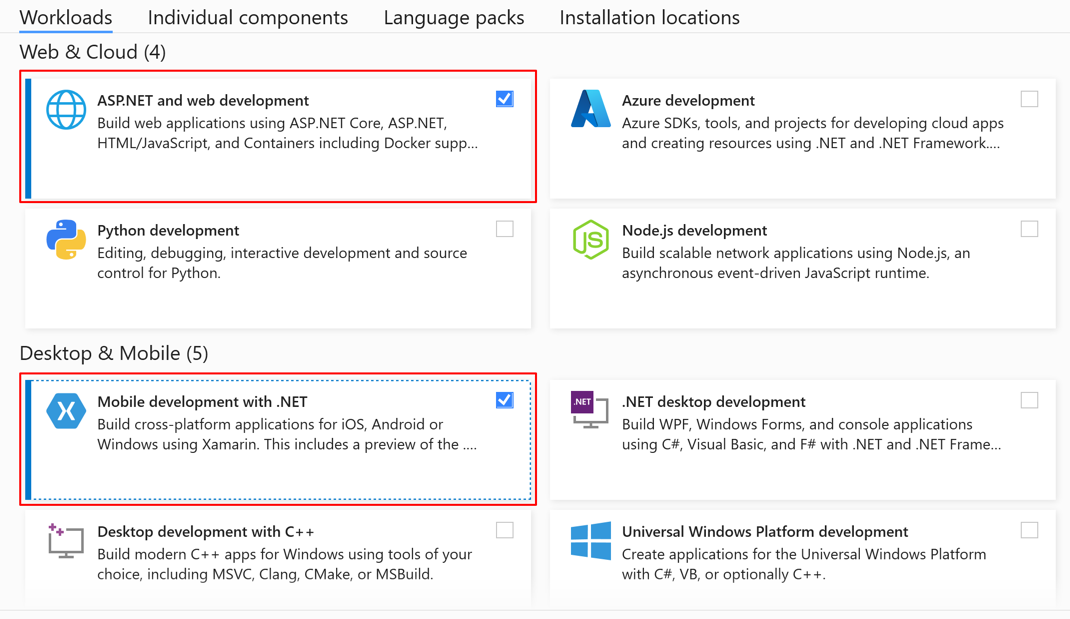
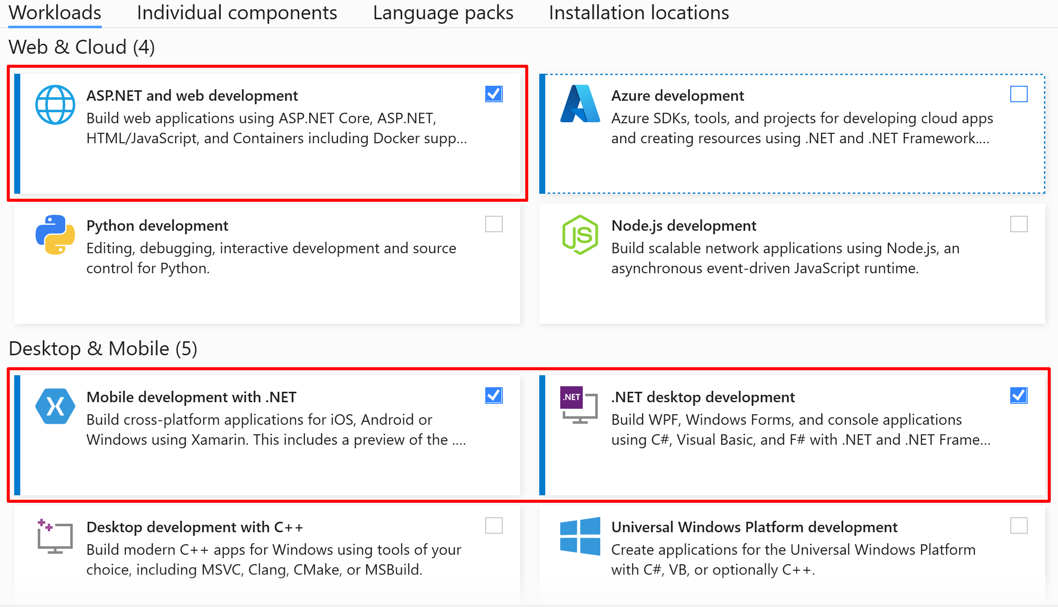
Edits.

diff --git a/docs/get-started/installation.md b/docs/get-started/installation.md
@@ -6,7 +6,7 @@ ms.date: 09/21/2021
 
 # Installation
 
-To create .NET Multi-platform App UI (.NET MAUI) apps, you need the latest preview versions of Visual Studio 2022 and .NET 6. Visual Studio 2022 should install .NET 6 for you, but if it's missing, download it from the [Download .NET 6.0 site](https://dotnet.microsoft.com/download/dotnet/6.0).
+To create .NET Multi-platform App UI (.NET MAUI) apps, you need the latest preview versions of Visual Studio 2022 and .NET 6.
 
 [!INCLUDE [docs under construction](~/includes/preview-note.md)]
 
@@ -15,13 +15,18 @@ To create .NET Multi-platform App UI (.NET MAUI) apps, you need the latest previ
 To create .NET MAUI apps, you'll need [Visual Studio 2022 Preview 4 or later](https://visualstudio.microsoft.com/vs/preview/vs2022/). Either install Visual Studio, or modify your installation, and install the following **workloads**:
 
 - Mobile development with .NET
+- .NET desktop development
 - ASP.NET and web development (required for .NET MAUI Blazor apps)
 
   :::image type="content" source="installation-images/vs-workloads.png" alt-text="Visual Studio workloads for .NET MAUI.":::
 
-Then, in the **Installation details** > **Mobile development with .NET** section of the installation window, check the **.NET MAUI (Preview)** optional workload:
+In the **Installation details** > **Mobile development with .NET** section of the installation window, check the **.NET MAUI (Preview)** optional workload:
 
-:::image type="content" source="installation-images/vs-optional.png" alt-text="Visual Studio installer enabling the .NET MAUI optional workload.":::
+:::image type="content" source="installation-images/vs-optional-mobile.png" alt-text="Visual Studio installer enabling the .NET MAUI optional workload.":::
+
+In the **Installation details** > **.NET desktop development** section of the installation window, check the **MSIX Packaging Tools** optional workload:
+
+:::image type="content" source="installation-images/vs-optional-desktop.png" alt-text="Visual Studio installer enabling the MSIX packaging tools optional workload.":::
 
 ## Android
 
@@ -59,16 +64,6 @@ Then, in the **Installation details** > **Mobile development with .NET** section
 
   Visual Studio will then install the Android 12 SDK.
 
-## iOS
-
-To build and debug .NET 6 iOS apps from Visual Studio 2022 you must also install the .NET MAUI workload on your Mac build host. On your Mac, in the .NET CLI, run the following command to install the .NET MAUI workload:
-
-```dotnetcli
-dotnet workload install maui
-```
-
-In addition, you must also install the latest beta of Xcode 13 on your Mac.
-
 ## Windows (WinUI 3)
 
 To create apps that target Windows UI Library (WinUI) 3, install the following Visual Studio extension:
@@ -78,4 +73,9 @@ To create apps that target Windows UI Library (WinUI) 3, install the following V
 > [!IMPORTANT]
 > You **must** uncomment the Windows `TargetFrameworks` from your _.csproj_ file in order to enable windows development.
 
-Continue to [Build your first App](first-app.md).
+## Next steps
+
+To learn how to create and run your first .NET MAUI app, continue to build your first app.
+
+> [!div class="nextstepaction"]
+> [Build your first app](first-app.md)
